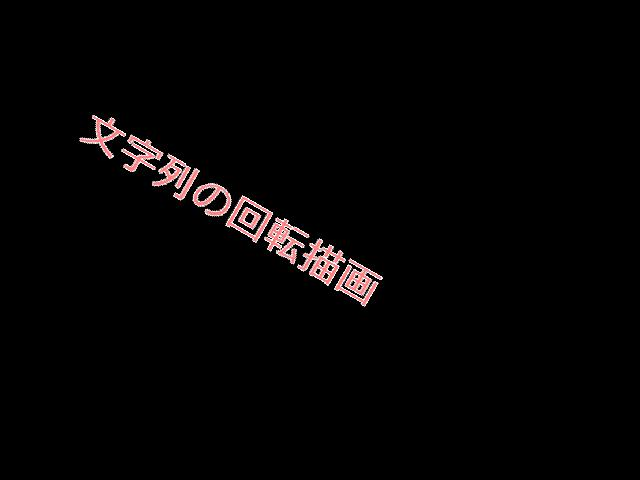
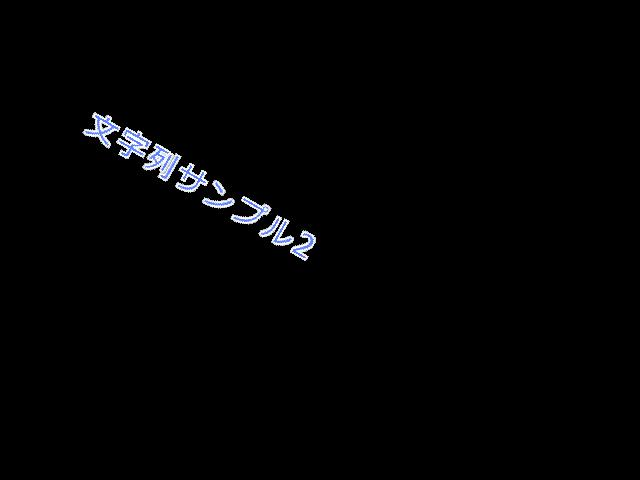
文字列がらみのサンプルを元に戻して動的フォントによる文字列描画サンプルを追加。（フォントの生成が修正されてから描画テキストを置き換える予定）

Changed region(s): [[0.125, 0.2188, 0.5938, 0.6562]]

diff --git a/Sample/BasicSample/sample_cs/TextObject2D/TextObject2D_Filtered.cs b/Sample/BasicSample/sample_cs/TextObject2D/TextObject2D_Filtered.cs
@@ -12,14 +12,15 @@ class TextObject2D_Filtered : ISample
     public void Run()
     {
         // Altseedを初期化する。
-        asd.Engine.Initialize("TextObject2D_Filtered", 640, 480, new asd.EngineOption());
+        asd.Engine.Initialize("TextObject2D_Filter", 640, 480, new asd.EngineOption());
+
 
         {
-            // 動的フォントの取得と文字列描画オブジェクトの設定を行う。
-            var edgeFont = asd.Engine.Graphics.CreateDynamicFont(string.Empty, 40, new asd.Color(255, 128, 128, 255), 1, new asd.Color(255, 255, 255, 255));
+            // フォントと文字列描画オブジェクトの設定を行う。
+            var edgeFont = asd.Engine.Graphics.CreateFont("Data/Font/edge.aff");
             var edgeObj = new asd.TextObject2D();
             edgeObj.Font = edgeFont;
-            edgeObj.Position = new asd.Vector2DF(30, 10);
+            edgeObj.Position = new asd.Vector2DF(100, 100);
 
             // 30度回転させて描画する
             edgeObj.Angle = 30;
@@ -27,7 +28,7 @@ class TextObject2D_Filtered : ISample
             // 描画のフィルタを線形補間にすることによって、描画時に境界がギザギザにならないようにする。
             edgeObj.TextureFilterType = asd.TextureFilterType.Linear;
 
-            edgeObj.Text = "ギザギザをなくした文字列の描画";
+            edgeObj.Text = "文字列サンプル3";
             asd.Engine.AddObject2D(edgeObj);
         }
         // Altseedのウインドウが閉じられていないか確認する。
@@ -35,7 +36,7 @@ class TextObject2D_Filtered : ISample
         {
             // Altseedを更新する。
             asd.Engine.Update();
-            Recorder.TakeScreenShot("TextObject2D_Filtered", 30);
+            Recorder.TakeScreenShot("TextObject2D_Filtered", 20);
         }
 
         // Altseedの終了処理をする。

diff --git a/Sample/BasicSample/sample_cs/TextObject2D/TextObject2D_DynamicFont.cs b/Sample/BasicSample/sample_cs/TextObject2D/TextObject2D_DynamicFont.cs
@@ -7,16 +7,16 @@ using System.Threading.Tasks;
 /// <summary>
 /// 文字列を表示するサンプル。
 /// </summary>
-class TextObject2D_Basic : ISample
+class TextObject2D_DynamicFont : ISample
 {
     public void Run()
     {
         // Altseedを初期化する。
-        asd.Engine.Initialize("TextObject2D_Basic", 640, 480, new asd.EngineOption());
+        asd.Engine.Initialize("TextObject2D_DynamicFont", 640, 480, new asd.EngineOption());
 
         {
-            // フォントを生成する
-            var font = asd.Engine.Graphics.CreateFont("Data/Font/edge.aff");
+            // 動的フォントを生成する
+            var font = asd.Engine.Graphics.CreateDynamicFont(string.Empty, 35, new asd.Color(255, 0, 0, 255), 1, new asd.Color(255, 255, 255, 255));
 
             // TextObject2Dを生成する
             var obj = new asd.TextObject2D();
@@ -28,7 +28,7 @@ class TextObject2D_Basic : ISample
             obj.Position = new asd.Vector2DF(100, 100);
 
             // 描画する文字列の指定
-            obj.Text = "文字列サンプル1";
+            obj.Text = "動的フォントによる文字列描画";
 
             // エンジンへの追加
             asd.Engine.AddObject2D(obj);
@@ -39,7 +39,7 @@ class TextObject2D_Basic : ISample
         {
             // Altseedを更新する。
             asd.Engine.Update();
-            Recorder.TakeScreenShot("TextObject2D_Basic", 20);
+            Recorder.TakeScreenShot("TextObject2D_DynamicFont", 20);
         }
 
         // Altseedの終了処理をする。

diff --git a/Sample/BasicSample/sample_cs/TextObject2D/TextObject2D_Rotate.cs b/Sample/BasicSample/sample_cs/TextObject2D/TextObject2D_Rotate.cs
@@ -15,15 +15,15 @@ class TextObject2D_Rotate : ISample
         asd.Engine.Initialize("TextObject2D_Rotate", 640, 480, new asd.EngineOption());
 
         {
-            // 動的フォントの取得と文字列描画オブジェクトの設定を行う。
-            var edgeFont = asd.Engine.Graphics.CreateDynamicFont(string.Empty, 40, new asd.Color(255, 128, 128, 255), 1, new asd.Color(255, 255, 255, 255));
+            // フォントと文字列描画オブジェクトの設定を行う。
+            var edgeFont = asd.Engine.Graphics.CreateFont("Data/Font/edge.aff");
             var edgeObj = new asd.TextObject2D();
             edgeObj.Font = edgeFont;
             edgeObj.Position = new asd.Vector2DF(100, 100);
 
             // 30度回転させて描画する。
             edgeObj.Angle = 30;
-            edgeObj.Text = "文字列の回転描画";
+            edgeObj.Text = "文字列サンプル2";
             asd.Engine.AddObject2D(edgeObj);
         }
 
@@ -32,7 +32,7 @@ class TextObject2D_Rotate : ISample
         {
             // Altseedを更新する。
             asd.Engine.Update();
-            Recorder.TakeScreenShot("TextObject2D_Rotate", 30);
+            Recorder.TakeScreenShot("TextObject2D_Rotate", 20);
         }
 
         // Altseedの終了処理をする。

diff --git a/Sample/BasicSample/sample_cpp/TextObject2D/TextObject2D_DynamicFont.cpp b/Sample/BasicSample/sample_cpp/TextObject2D/TextObject2D_DynamicFont.cpp
@@ -2,16 +2,16 @@
 #include <Base.h>
 
 /**
-@brief	文字列を表示するサンプル。
+@brief	動的フォントを用いて文字列を表示するサンプル。
 */
-void TextObject2D_Basic()
+void TextObject2D_DynamicFont()
 {
 	// Altseedを初期化する
-	asd::Engine::Initialize(asd::ToAString("TextObject2D_Basic").c_str(), 640, 480, asd::EngineOption());
+	asd::Engine::Initialize(asd::ToAString("TextObject2D_DynamicFont").c_str(), 640, 480, asd::EngineOption());
 
 	{
-		// フォントを生成する
-		auto font = asd::Engine::GetGraphics()->CreateFont(asd::ToAString("Data/Font/edge.aff").c_str());
+		// 動的フォントを生成する
+		auto font = asd::Engine::GetGraphics()->CreateDynamicFont(asd::ToAString("").c_str(), 35, asd::Color(255, 0, 0, 255), 1, asd::Color(255, 255, 255, 255));
 
 		// TextObject2Dを生成する
 		auto obj = std::make_shared<asd::TextObject2D>();
@@ -23,7 +23,7 @@ void TextObject2D_Basic()
 		obj->SetPosition(asd::Vector2DF(100, 100));
 
 		// 描画する文字列の指定
-		obj->SetText(asd::ToAString("文字列サンプル1").c_str());
+		obj->SetText(asd::ToAString("動的フォントによる文字列描画").c_str());
 
 		// オブジェクトのインスタンスをエンジンへ追加する。
 		asd::Engine::AddObject2D(obj);

diff --git a/Sample/BasicSample/sample_cpp/TextObject2D/TextObject2D_Filtered.cpp b/Sample/BasicSample/sample_cpp/TextObject2D/TextObject2D_Filtered.cpp
@@ -10,8 +10,8 @@ void TextObject2D_Filtered()
 	asd::Engine::Initialize(asd::ToAString("TextObject2D_Filtered").c_str(), 640, 480, asd::EngineOption());
 
 	{
-		// 動的フォントの取得と文字列描画オブジェクトの設定を行う。
-		auto edgeFont = asd::Engine::GetGraphics()->CreateDynamicFont(asd::ToAString("").c_str(), 40, asd::Color(255, 128, 128, 255), 1, asd::Color(255, 255, 255, 255));
+		// フォントと文字列描画オブジェクトの設定を行う。
+		auto edgeFont = asd::Engine::GetGraphics()->CreateFont(asd::ToAString("Data/Font/edge.aff").c_str());
 		auto edgeObj = std::make_shared<asd::TextObject2D>();
 		edgeObj->SetFont(edgeFont);
 		edgeObj->SetPosition(asd::Vector2DF(100, 100));
@@ -22,7 +22,7 @@ void TextObject2D_Filtered()
 		// 描画のフィルタを線形補間にすることによって、描画時に境界がギザギザにならないようにする。
 		edgeObj->SetTextureFilterType(asd::TextureFilterType::Linear);
 
-		edgeObj->SetText(asd::ToAString("ギザギザをなくした文字列の描画").c_str());
+		edgeObj->SetText(asd::ToAString("文字列サンプル3").c_str());
 
 		// オブジェクトのインスタンスをエンジンへ追加する。
 		asd::Engine::AddObject2D(edgeObj);

diff --git a/Sample/BasicSample/sample_cpp/TextObject2D/TextObject2D_Rotate.cpp b/Sample/BasicSample/sample_cpp/TextObject2D/TextObject2D_Rotate.cpp
@@ -10,15 +10,15 @@ void TextObject2D_Rotate()
 	asd::Engine::Initialize(asd::ToAString("TextObject2D_Rotate").c_str(), 640, 480, asd::EngineOption());
 
 	{
-		// 動的フォントの取得と文字列描画オブジェクトの設定を行う。
-		auto edgeFont = asd::Engine::GetGraphics()->CreateDynamicFont(asd::ToAString("").c_str(), 40, asd::Color(255, 128, 128, 255), 1, asd::Color(255, 255, 255, 255));
+		// フォントと文字列描画オブジェクトの設定を行う。
+		auto edgeFont = asd::Engine::GetGraphics()->CreateFont(asd::ToAString("Data/Font/edge.aff").c_str());
 		auto edgeObj = std::make_shared<asd::TextObject2D>();
 		edgeObj->SetFont(edgeFont);
 		edgeObj->SetPosition(asd::Vector2DF(100, 100));
 
 		//30度回転させて描画する
 		edgeObj->SetAngle(30);
-		edgeObj->SetText(asd::ToAString("文字列の回転描画").c_str());
+		edgeObj->SetText(asd::ToAString("文字列サンプル2").c_str());
 
 		// オブジェクトのインスタンスをエンジンへ追加する。
 		asd::Engine::AddObject2D(edgeObj);

diff --git a/Sample/BasicSample/sample_cpp/main.cpp b/Sample/BasicSample/sample_cpp/main.cpp
@@ -45,6 +45,7 @@ extern void Sound_Loop();
 extern void EffectObject2D_Simple();
 
 extern void TextObject2D_Basic();
+extern void TextObject2D_DynamicFont();
 extern void TextObject2D_Rotate();
 extern void TextObject2D_Filtered();
 
@@ -111,6 +112,7 @@ int main(int argc, char** argv)
 		INFO(EffectObject2D_Simple),
 
 		INFO(TextObject2D_Basic),
+		INFO(TextObject2D_DynamicFont),
 		INFO(TextObject2D_Rotate),
 		INFO(TextObject2D_Filtered),
 

diff --git a/Dev/FontGenerator/FontGenerator.Model/swig/DLL.cs b/Dev/FontGenerator/FontGenerator.Model/swig/DLL.cs
@@ -1,6 +1,6 @@
 /* ----------------------------------------------------------------------------
  * This file was automatically generated by SWIG (http://www.swig.org).
- * Version 3.0.2
+ * Version 3.0.0
  *
  * Do not make changes to this file unless you know what you are doing--modify
  * the SWIG interface file instead.

diff --git a/Dev/FontGenerator/FontGenerator.Model/swig/FontGenerator.cs b/Dev/FontGenerator/FontGenerator.Model/swig/FontGenerator.cs
@@ -1,6 +1,6 @@
 /* ----------------------------------------------------------------------------
  * This file was automatically generated by SWIG (http://www.swig.org).
- * Version 3.0.2
+ * Version 3.0.0
  *
  * Do not make changes to this file unless you know what you are doing--modify
  * the SWIG interface file instead.

diff --git a/Dev/FontGenerator/FontGenerator.Model/swig/FontGeneratorPINVOKE.cs b/Dev/FontGenerator/FontGenerator.Model/swig/FontGeneratorPINVOKE.cs
@@ -1,6 +1,6 @@
 /* ----------------------------------------------------------------------------
  * This file was automatically generated by SWIG (http://www.swig.org).
- * Version 3.0.2
+ * Version 3.0.0
  *
  * Do not make changes to this file unless you know what you are doing--modify
  * the SWIG interface file instead.

diff --git a/Dev/FontGenerator/FontGenerator/swig/DLL.cs b/Dev/FontGenerator/FontGenerator/swig/DLL.cs
@@ -1,6 +1,6 @@
 /* ----------------------------------------------------------------------------
  * This file was automatically generated by SWIG (http://www.swig.org).
- * Version 3.0.2
+ * Version 3.0.0
  *
  * Do not make changes to this file unless you know what you are doing--modify
  * the SWIG interface file instead.

diff --git a/Dev/FontGenerator/FontGenerator/swig/FontGenerator.cs b/Dev/FontGenerator/FontGenerator/swig/FontGenerator.cs
@@ -1,6 +1,6 @@
 /* ----------------------------------------------------------------------------
  * This file was automatically generated by SWIG (http://www.swig.org).
- * Version 3.0.2
+ * Version 3.0.0
  *
  * Do not make changes to this file unless you know what you are doing--modify
  * the SWIG interface file instead.
